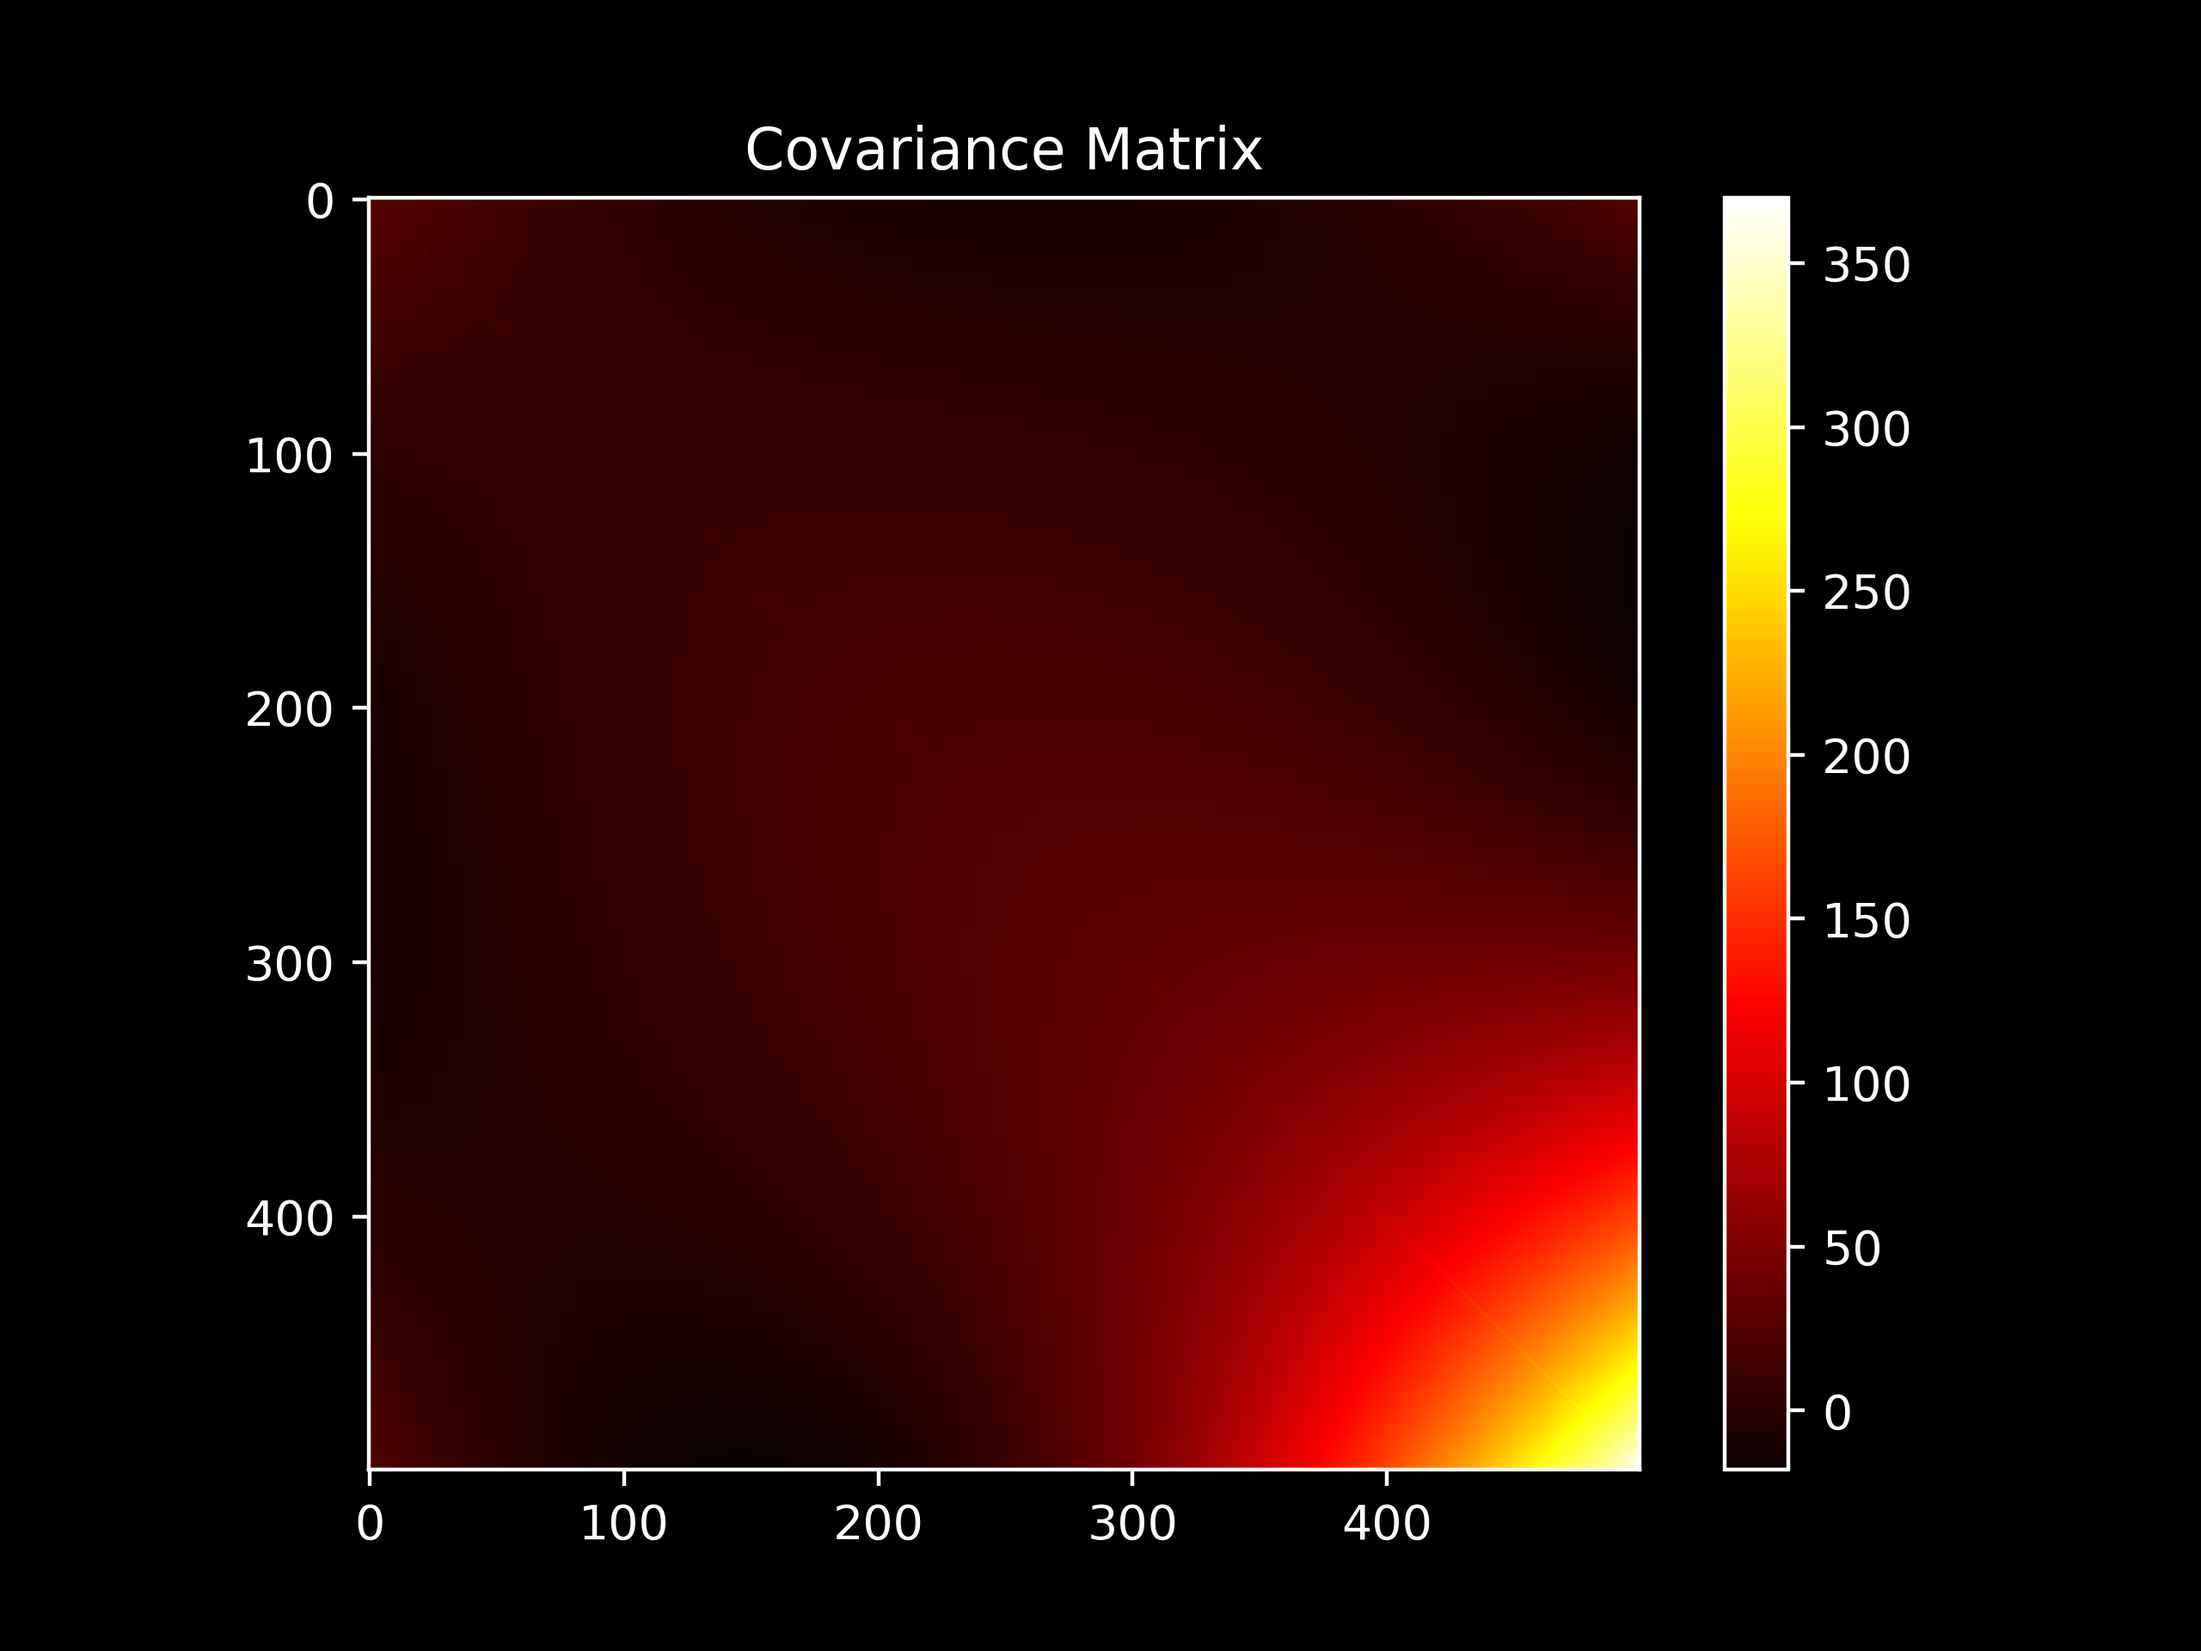
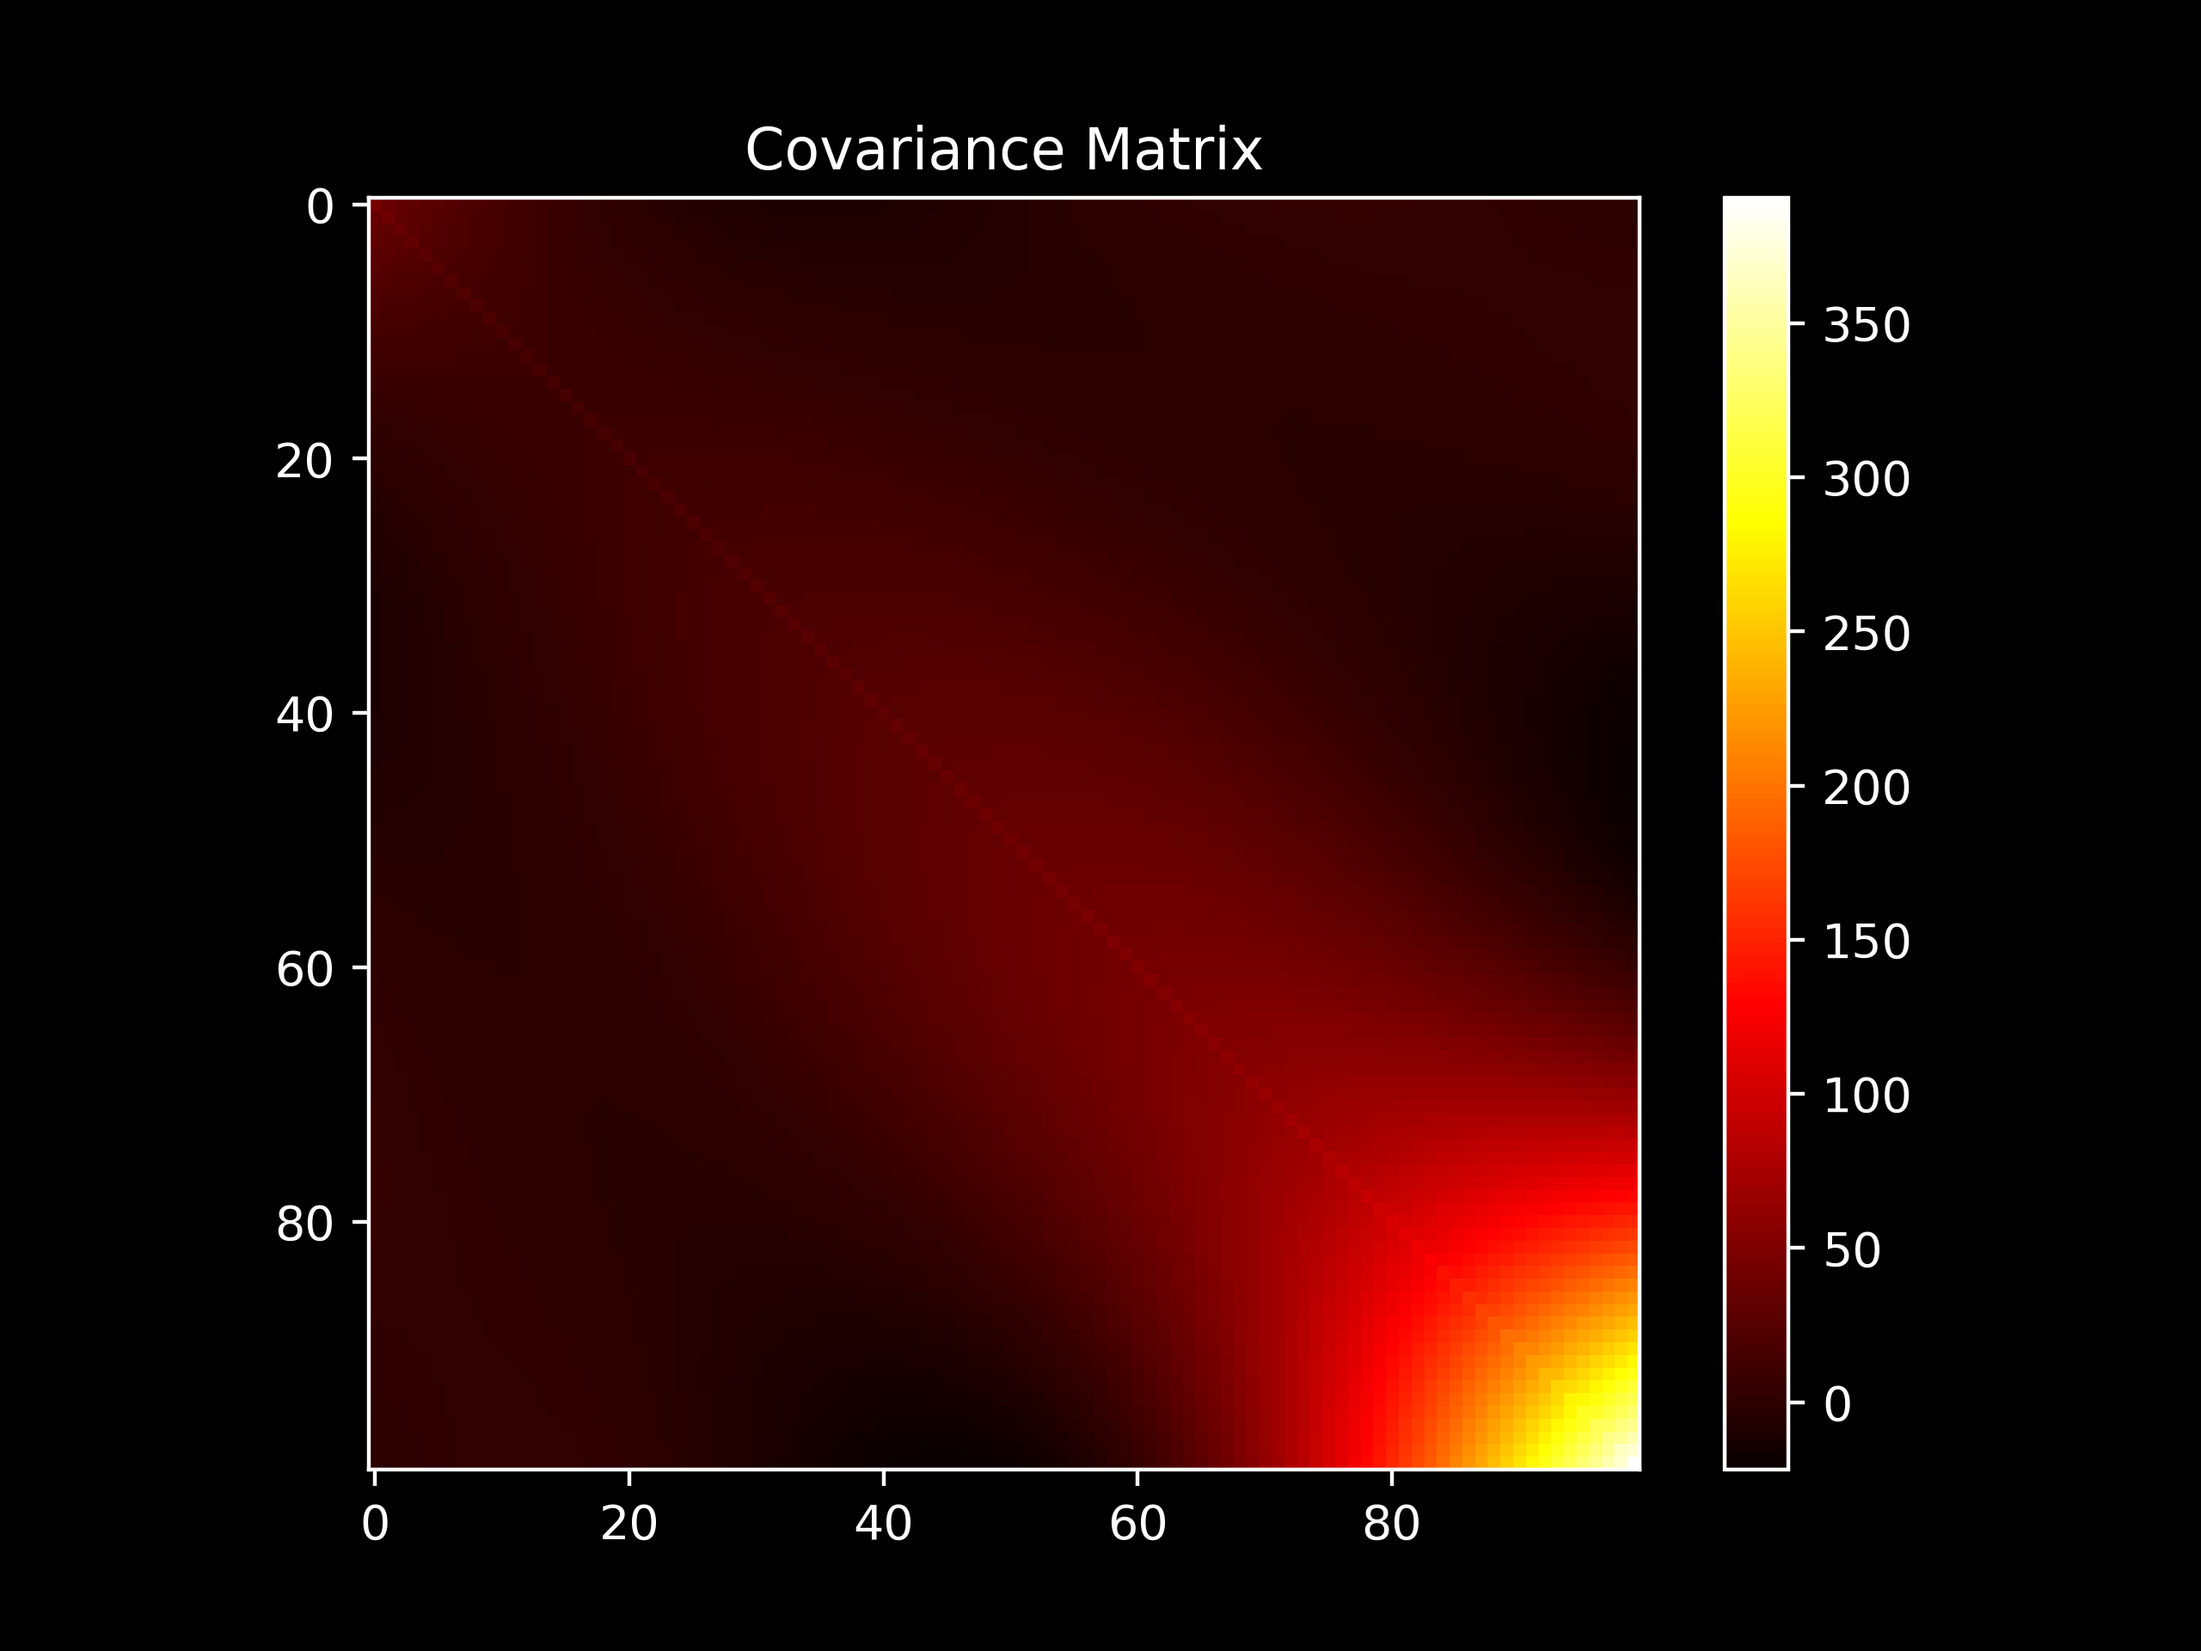
cc gp

diff --git a/cosmic_chronometers/cc_gp.py b/cosmic_chronometers/cc_gp.py
@@ -1,8 +1,7 @@
 import numpy as np
 import matplotlib.pyplot as plt
-from matplotlib.colors import LogNorm
 from sklearn.gaussian_process import GaussianProcessRegressor
-from sklearn.gaussian_process.kernels import ConstantKernel as C, WhiteKernel, DotProduct
+from sklearn.gaussian_process.kernels import ConstantKernel as C, WhiteKernel, RBF, DotProduct
 from y2005cc.data import get_data
 
 legend, z_values, H_values, cov_matrix = get_data()
@@ -14,31 +13,32 @@ H_mean = np.mean(H_values)
 normalized_H = (H_values - H_mean) / H_std
 normalised_sigma = dH_values / H_std
 
-
-kernel = C() * DotProduct()**3 + WhiteKernel(0.005, 'fixed')
+fixed_noise_to_avoid_singular_matrix = WhiteKernel(noise_level=0.005, noise_level_bounds='fixed')
+deviations_from_matter = C(0.223**2) * DotProduct(sigma_0_bounds=(1e-10, 1e2))**1.5
+kernel = C(1**2) * RBF(0.85) + deviations_from_matter + fixed_noise_to_avoid_singular_matrix
 gp = GaussianProcessRegressor(
     kernel=kernel,
     alpha=normalised_sigma**2,
     normalize_y=False,
     n_restarts_optimizer=10,
 )
-gp.fit(z_values.reshape(-1,1), normalized_H.reshape(-1,1))
+gp.fit(1 + z_values.reshape(-1,1), normalized_H.reshape(-1,1))
 
-z_pred = np.linspace(0, z_values.max(), 500).reshape(-1, 1)
-H_pred, cov_pred = gp.predict(z_pred, return_cov=True)
+z_pred = np.linspace(0, z_values.max(), 100).reshape(-1, 1)
+H_pred, cov_pred = gp.predict(1 + z_pred, return_cov=True)
 cov_pred = cov_pred * H_std**2
 H_pred = H_pred * H_std + H_mean
 sigma = np.sqrt(np.diag(cov_pred))
 
-print("H0", f"{H_pred[0]:.2f} ± {sigma[0]:.2f}") # H0 67.66 ± 5.79 km/s/Mpc
-print("GP score:", gp.score(z_values, normalized_H)) # 0.897
-print("GP marginal likelihood value", gp.log_marginal_likelihood_value_ - H_values.size * np.log(H_std)) # -137.5
+print("H0", f"{H_pred[0]:.2f} ± {sigma[0]:.2f}") # H0 72.95 ± 6.69 km/s/Mpc
+print("GP score:", gp.score(1 + z_values, normalized_H)) # 0.891
+print("GP marginal likelihood value", gp.log_marginal_likelihood_value_ - H_values.size * np.log(H_std)) # -137.05
 print("GP kernel", gp.kernel_)
-print("cov mat condition number", np.linalg.cond(cov_pred)) # 232.6
+print("cov mat condition number", np.linalg.cond(cov_pred)) # 667.7
 
 plt.style.use('dark_background')
 plt.errorbar(z_values, H_values, yerr=dH_values, fmt='.', label='CC Data', capsize=2)
-plt.plot(z_pred, H_pred, label='GP Mean $DotProduct(2.14)^3$')
+plt.plot(z_pred, H_pred, label='GP Mean')
 plt.fill_between(z_pred.ravel(), H_pred - sigma, H_pred + sigma, alpha=0.5, label=r'$1\sigma$')
 plt.fill_between(z_pred.ravel(), H_pred - 2 * sigma, H_pred + 2 * sigma, alpha=0.3, label=r'$2\sigma$')
 plt.xlabel('z')
@@ -54,32 +54,4 @@ plt.imshow(cov_pred, cmap='hot', interpolation='none')
 plt.colorbar()
 plt.title('Covariance Matrix')
 plt.savefig('cosmic_chronometers/cc_gp_cov_matrix.png', dpi=400)
-plt.close()
-
-# Likelihood function
-s0 = np.logspace(-5, 5, num=100)
-offset = np.logspace(-5, 5, num=100)
-s0_grid, offset_grid = np.meshgrid(s0, offset)
-
-log_marginal_likelihood = [
-    gp.log_marginal_likelihood(theta=np.log([c0_v, scale_v]))
-    for c0_v, scale_v in zip(s0_grid.ravel(), offset_grid.ravel())
-]
-log_marginal_likelihood = np.reshape(log_marginal_likelihood, offset_grid.shape)
-vmin, vmax = (-log_marginal_likelihood).min(), 150
-level = np.around(np.logspace(np.log10(vmin), np.log10(vmax), num=20), decimals=1)
-plt.contour(
-    s0_grid,
-    offset_grid,
-    -log_marginal_likelihood,
-    levels=level,
-    norm=LogNorm(vmin=vmin, vmax=vmax),
-)
-plt.colorbar()
-plt.xscale("log")
-plt.yscale("log")
-plt.xlabel("$\sigma_0$")
-plt.ylabel("offset")
-plt.title("Negative log-marginal-likelihood")
-plt.savefig('cosmic_chronometers/cc_gp_likelihood.png', dpi=400)
 plt.close()
